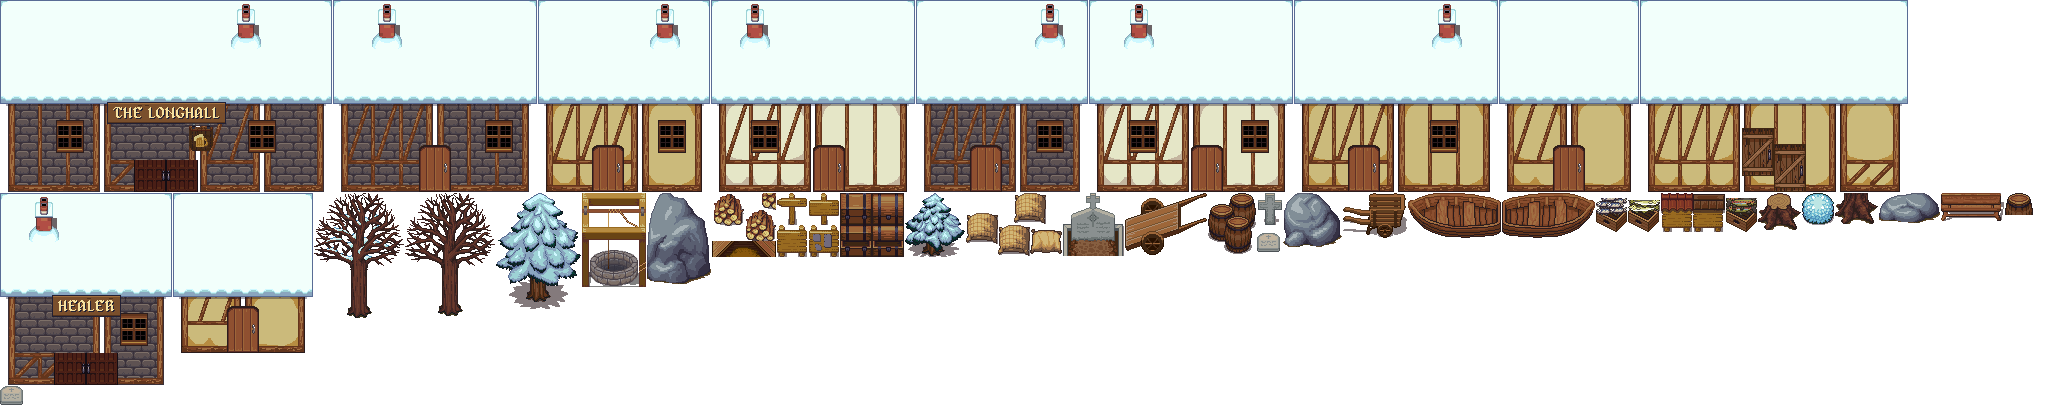
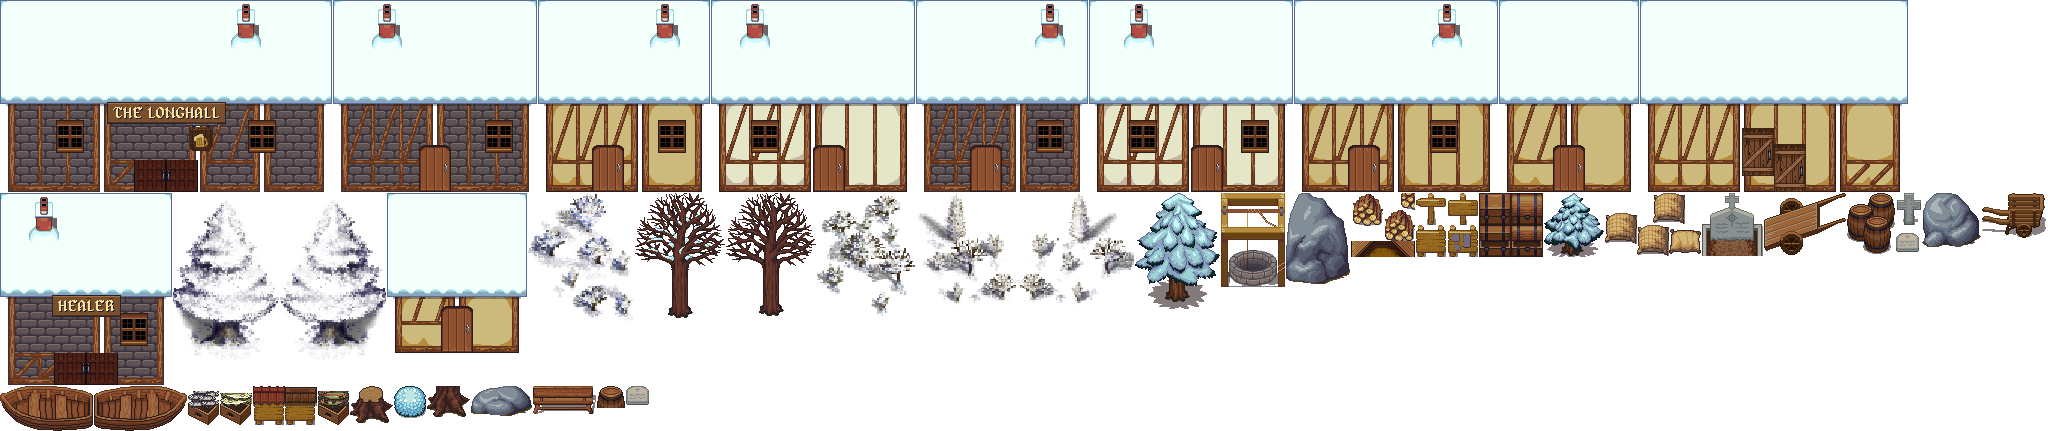
Sync from private repo

diff --git a/derived-art/source/tools/towngen.py b/derived-art/source/tools/towngen.py
@@ -510,6 +510,26 @@ BASES.update({'snow_pine': (0.35, 20, 0.65), 'snow_pine2': (0.35, 20, 0.65), 'sn
               'bare_tree': (0.35, 12, 0.65), 'snowy_tree': (0.35, 12, 0.65), 'frosted_bush': (0.1, 16, 0.9),
               'stump': (0.2, 20, 0.8), 'roots': (0.2, 16, 0.8), 'boat': None, 'boat_r': None,
               'big_fish': None, 'flatfish': None})
+
+
+def wesnoth_tree(name, flip=False, grow=1.5):
+    """A tree from The Battle for Wesnoth's forests (GPL; its snowy fir and winter thickets in Tumbledown,
+    the user's: they look really good), grown 1.5x as Grimhold's dead oaks are, its colours its own."""
+    im = Image.open(os.path.join(ROOT, 'tools', 'worldgen-sources', 'wesnoth-forest', f'{name}.png')).convert('RGBA')
+    im = im.crop(im.getbbox())
+    if flip:
+        im = im.transpose(Image.FLIP_LEFT_RIGHT)
+    return im.resize((round(im.width * grow), round(im.height * grow)), Image.NEAREST)
+
+
+for _key, _name, _flip, _base in (('snowy_fir', 'great-tree-snowy', False, (0.35, 14, 0.65)),
+                                  ('snowy_fir_r', 'great-tree-snowy', True, (0.35, 14, 0.65)),
+                                  ('thicket', 'deciduous-winter-snow-sparse', False, (0.2, 18, 0.8)),
+                                  ('thicket_small', 'deciduous-winter-snow-sparse-small', False, (0.25, 16, 0.75)),
+                                  ('thicket2', 'deciduous-winter-snow-sparse2', True, (0.2, 18, 0.8)),
+                                  ('thicket3', 'deciduous-winter-snow-sparse3', False, (0.2, 18, 0.8))):
+    PROPS[_key] = (lambda n=_name, f=_flip: wesnoth_tree(n, f))
+    BASES[_key] = _base
 # The catch, heaped in an open crate like the produce
 PRODUCE.update({'herring': (544, 928), 'mackerel': (608, 928), 'cod': (928, 928), 'trout': (640, 928),
                 'crabs': (992, 704), 'mussels': (896, 704), 'oysters': (960, 704)})
@@ -2563,6 +2583,12 @@ def tumbledown():
                        ('frosted_bush', 4.2, 32.2), ('frosted_bush', 35.6, 33.8), ('frosted_bush', 64.4, 25.2),
                        ('frosted_bush', 16.6, 23.2), ('snowy_tree', 3.6, 14.6), ('bare_tree', 64.2, 14.4),
                        ('snowy_tree', 30.4, 36.6), ('bare_tree', 61.2, 35.2), ('snowy_tree', 24.2, 11.4), ('bare_tree', 30, 10.6)):
+        p(name, x, y)
+    # Wesnoth's snowy firs and winter thickets about the town (the user's, November 2026)
+    for name, x, y in (('snowy_fir', 59.6, 14), ('thicket', 7, 13.4), ('thicket_small', 66, 21.6),
+                       ('snowy_fir_r', 37, 37.6), ('thicket2', 20.6, 37.4), ('thicket3', 65.4, 30.2),
+                       ('thicket_small', 11, 38), ('thicket', 33, 12.8),
+                       ('snowy_fir', 30.2, 33)):     # by the well, the middle of the town
         p(name, x, y)
     snow_edge(t, skip_rows=[(19, 28)], deep=3)
     # The clearing the woodcutters have made, and the old graves under the pines
